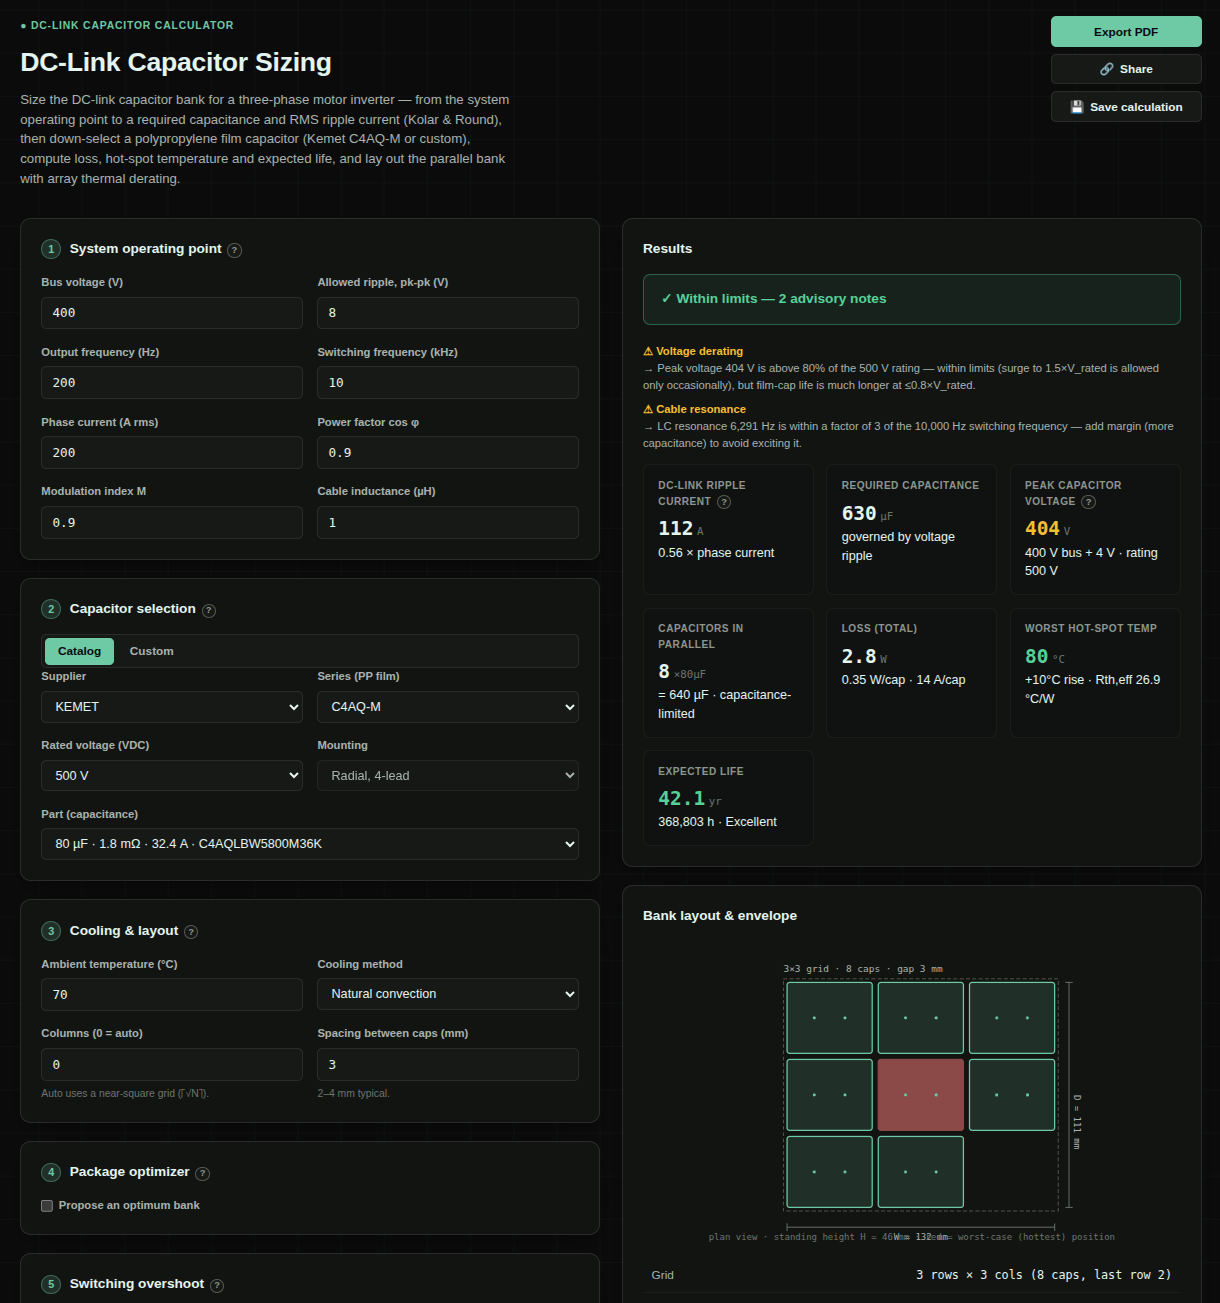
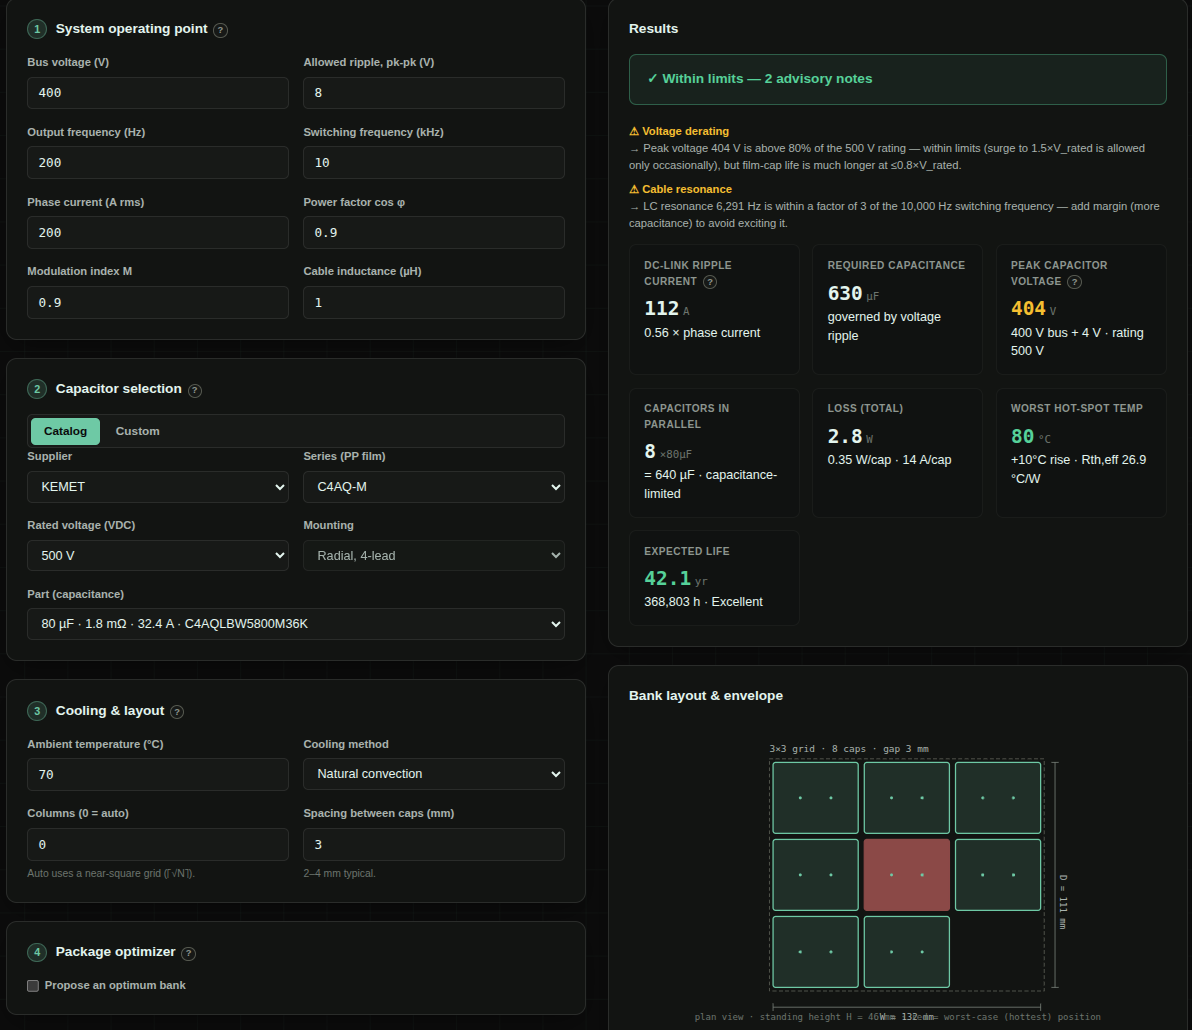
Expand hero carousel and switch pricing to 3 static cards
Hero carousel now cycles through 7 real calculators: adds Id/Iq Current
Vector (space-vector diagram) and O-Ring Seal (gland cross-section) to
the existing Busbar, DC-Link, Harness Bundle, Beam Bending, and Speed/
Torque/Power, using refreshed screenshots for DC-Link, Harness Bundle,
and Beam Bending. Cropped each to the established convention (excludes
page header/nav) and cleaned up the old/duplicate asset files.

Pricing drops the carousel in favor of 3 static side-by-side cards
(Monthly / Annual / Lifetime) with a "Best value" badge on Lifetime to
match the existing "Save 25%" badge on Annual.

diff --git a/src/components/PricingCards.tsx b/src/components/PricingCards.tsx
@@ -1,0 +1,47 @@
+import { Link } from 'react-router-dom';
+
+// The 3 real Stripe billing options for Premium — same feature set on every
+// plan (Premium is a single tier), differing only in billing cadence/price.
+interface PricingPlan {
+  id: 'monthly' | 'annual' | 'lifetime';
+  label: string;
+  priceDisplay: string;
+  cadence: string;
+  note?: string;
+  highlight?: string;
+}
+
+const PLANS: PricingPlan[] = [
+  { id: 'monthly', label: 'Monthly', priceDisplay: '$12', cadence: '/ month' },
+  { id: 'annual', label: 'Annual', priceDisplay: '$108', cadence: '/ year', note: '$9/month, billed annually', highlight: 'Save 25%' },
+  { id: 'lifetime', label: 'Lifetime', priceDisplay: '$249', cadence: 'one-time', highlight: 'Best value' },
+];
+
+const PREMIUM_FEATURES = [
+  'PDF export with your company\'s branding',
+  'Save and reload calculations',
+  'Every advanced / custom-input mode',
+  'Full standards reference tables',
+];
+
+export default function PricingCards() {
+  return (
+    <div className="pricing-grid">
+      {PLANS.map((plan) => (
+        <div className="pricing-card" key={plan.id}>
+          {plan.highlight && <div className="pricing-badge">{plan.highlight}</div>}
+          <div className="pricing-plan-label">{plan.label}</div>
+          <div className="pricing-price">
+            {plan.priceDisplay}
+            <span className="pricing-cadence">{plan.cadence}</span>
+          </div>
+          {plan.note && <div className="pricing-note">{plan.note}</div>}
+          <ul className="pricing-features">
+            {PREMIUM_FEATURES.map((f) => <li key={f}>✓ {f}</li>)}
+          </ul>
+          <Link to="/account" className="btn primary">Get started</Link>
+        </div>
+      ))}
+    </div>
+  );
+}

diff --git a/src/index.css b/src/index.css
@@ -918,23 +918,22 @@ input[type="number"] { font-family: var(--font-mono); }
 .pricing-section { margin: 4.5rem 0; text-align: center; }
 .pricing-section h2 { font-size: 1.75rem; margin: 0.5rem auto 2.5rem; max-width: 34ch; }
 
-.pricing-carousel {
-  display: flex;
-  flex-direction: column;
-  align-items: center;
+.pricing-grid {
+  display: grid;
+  grid-template-columns: repeat(3, 1fr);
   gap: 1.5rem;
+  max-width: 1080px;
+  margin: 0 auto;
+  align-items: start;
 }
 
 .pricing-card {
   position: relative;
-  width: 100%;
-  max-width: 340px;
   background: var(--bg-card);
   border: 1px solid var(--border);
   border-radius: var(--radius-lg);
   padding: 2rem 1.75rem;
   text-align: left;
-  animation: hero-mockup-fade-in 0.4s var(--ease-out);
 }
 .pricing-badge {
   position: absolute;
@@ -955,22 +954,9 @@ input[type="number"] { font-family: var(--font-mono); }
 .pricing-features li { color: var(--text-2); font-size: 0.88rem; padding: 0.35rem 0; }
 .pricing-card .btn { width: 100%; text-align: center; }
 
-.pricing-nav {
-  display: flex;
-  justify-content: center;
-  gap: 0.5rem;
+@media (max-width: 800px) {
+  .pricing-grid { grid-template-columns: 1fr; max-width: 340px; }
 }
-.pricing-nav button {
-  width: 8px;
-  height: 8px;
-  border-radius: 50%;
-  border: none;
-  padding: 0;
-  background: var(--border-strong);
-  cursor: pointer;
-  transition: background 0.15s var(--ease-out), transform 0.15s var(--ease-out);
-}
-.pricing-nav button.active { background: var(--accent); transform: scale(1.3); }
 
 .hero {
   padding: 1rem 0 2.75rem;

diff --git a/src/components/HeroCarousel.tsx b/src/components/HeroCarousel.tsx
@@ -1,8 +1,10 @@
 import { useEffect, useState } from 'react';
 import busbarScreenshot from '../assets/hero/busbar-screenshot.png';
-import dcLinkScreenshot from '../assets/hero/dc-link-screenshot.png';
-import harnessBundleScreenshot from '../assets/hero/harness-bundle-screenshot.png';
-import beamBendingScreenshot from '../assets/hero/beam-bending-screenshot.png';
+import dcLinkScreenshot from '../assets/hero/dc-link-screenshot1.png';
+import harnessBundleScreenshot from '../assets/hero/harness-bundle-screenshot1.png';
+import beamBendingScreenshot from '../assets/hero/beam-bending-screenshot1.png';
+import idIqVectorScreenshot from '../assets/hero/id-iq-vector-screenshot.png';
+import oRingScreenshot from '../assets/hero/o-ring-screenshot.png';
 import speedTorquePowerScreenshot from '../assets/hero/speed-torque-power-screenshot.png';
 
 const ROTATE_MS = 4500;
@@ -14,6 +16,8 @@ const SLIDES = [
   { title: 'Busbar Temperature & Ampacity Calculator', image: busbarScreenshot },
   { title: 'DC-Link Capacitor Sizing', image: dcLinkScreenshot },
   { title: 'Harness Bundle Diameter Calculator', image: harnessBundleScreenshot },
+  { title: 'Id / Iq Current Vector Calculator', image: idIqVectorScreenshot },
+  { title: 'O-Ring Seal Calculator', image: oRingScreenshot },
   { title: 'Beam Bending Calculator', image: beamBendingScreenshot },
   { title: 'Speed ↔ Torque ↔ Power Calculator', image: speedTorquePowerScreenshot },
 ];

diff --git a/src/pages/Home.tsx b/src/pages/Home.tsx
@@ -1,7 +1,7 @@
 import { Link } from 'react-router-dom';
 import LandingGraphic from '../components/LandingGraphic';
 import HeroCarousel from '../components/HeroCarousel';
-import PricingCarousel from '../components/PricingCarousel';
+import PricingCards from '../components/PricingCards';
 import { ALL_CALCULATOR_LINKS } from '../lib/navCategories';
 
 const DISCIPLINES = [
@@ -104,7 +104,7 @@ export default function Home() {
       <section className="pricing-section">
         <div className="eyebrow" style={{ textAlign: 'center' }}>● Pricing</div>
         <h2>The calculation is always free. Premium adds the rest.</h2>
-        <PricingCarousel />
+        <PricingCards />
       </section>
 
       <section className="card home-cta">
